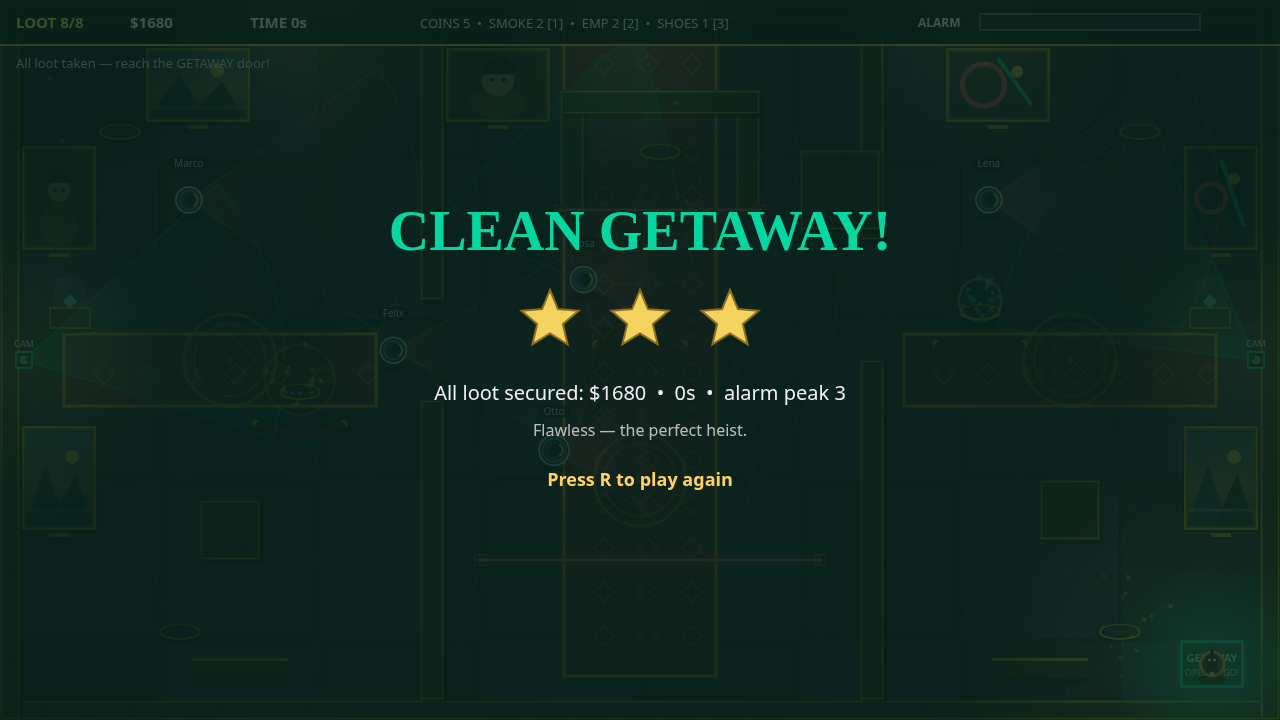
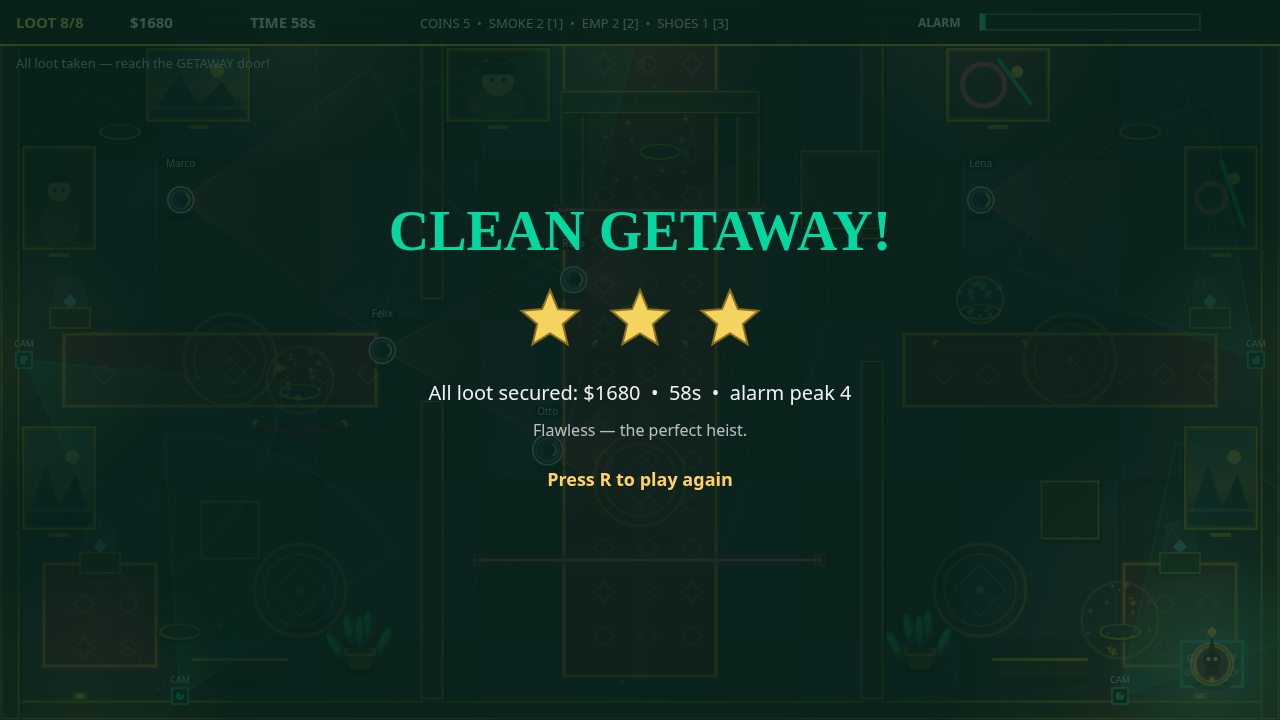
v3: 5 cameras (Cam D guards Emerald, Cam E guards Topaz + GETAWAY), bigger hero thief, lit south corners, realistic win time
- Cam D (180,696, base -PI/2-0.25) sweeps the Emerald + SW entry corner;
  Cam E (1120,696, base -PI/2+0.55) sweeps the Topaz + GETAWAY door.
  Title text 3 CAMERAS -> 5 CAMERAS (README + main.ts header too).
- Thief drawn 1.5x collision radius with gold hero ring, stronger rim
  light, warm halo, floating gold marker; collision r=12, speed and all
  mechanics unchanged. Lantern light pool widened 250 -> 280.
- South corners filled (visual only, never blocks movement): corner
  rugs, 2 extra glass cases, 2 potted palms, 2 gold floor medallions,
  2 bottom-wall sconces + light pools.
- Win-test staging now records a realistic elapsed time (52-73s) before
  the exit step, so 4-getaway.png shows 58s instead of 0s.
- Verified 2x headless: 0 console/page errors; win 8/8 $1,680 3 stars;
  caught alarm 100; LOS clear/blocked/smoke/out-of-range; laser +25;
  canSee proof: Cam D sees Emerald + thief start, Cam E sees Topaz +
  GETAWAY centre/corner, aligned and at some point in the live sweep.

diff --git a/game/src/render.js b/game/src/render.js
@@ -138,7 +138,7 @@ function buildStaticLayer() {
     ctx.fillRect(cp.x + cp.w / 2 - 6, cp.y, 12, cp.h);
   }
   // --- gold floor medallions (inlaid marble circles, gallery centres) ---
-  for (const [mx, my] of [[230, 360], [1070, 360], [640, 480]]) {
+  for (const [mx, my] of [[230, 360], [1070, 360], [640, 480], [300, 590], [980, 590]]) {
     ctx.strokeStyle = 'rgba(201,162,39,0.55)';
     ctx.lineWidth = 3;
     ctx.beginPath(); ctx.arc(mx, my, 46, 0, Math.PI * 2); ctx.stroke();
@@ -243,6 +243,34 @@ function buildStaticLayer() {
     ctx.beginPath();
     ctx.moveTo(cs.x, cs.y - 6); ctx.lineTo(cs.x + 7, cs.y + 2); ctx.lineTo(cs.x, cs.y + 8); ctx.lineTo(cs.x - 7, cs.y + 2);
     ctx.closePath(); ctx.fill();
+  }
+  // --- potted palms (terracotta pot + layered fronds) ---
+  for (const pl of LEVEL.decor.plants) {
+    ctx.fillStyle = 'rgba(0,0,0,0.4)';
+    ctx.beginPath(); ctx.ellipse(pl.x, pl.y + 14, 20, 6, 0, 0, Math.PI * 2); ctx.fill();
+    // fronds behind the pot rim
+    const fronds = [[-14, -26, -0.5], [-6, -34, -0.15], [4, -36, 0.1], [13, -28, 0.45], [0, -30, 0]];
+    for (const [ox, oy, rot] of fronds) {
+      ctx.save();
+      ctx.translate(pl.x, pl.y + 6);
+      ctx.rotate(rot);
+      ctx.fillStyle = '#1d6b3a';
+      ctx.beginPath(); ctx.ellipse(ox, oy, 6, 16, 0, 0, Math.PI * 2); ctx.fill();
+      ctx.fillStyle = '#2fd67a';
+      ctx.beginPath(); ctx.ellipse(ox - 1, oy - 2, 3.5, 12, 0, 0, Math.PI * 2); ctx.fill();
+      ctx.restore();
+    }
+    ctx.fillStyle = '#8a4a22';
+    ctx.beginPath();
+    ctx.moveTo(pl.x - 14, pl.y - 2); ctx.lineTo(pl.x + 14, pl.y - 2);
+    ctx.lineTo(pl.x + 10, pl.y + 14); ctx.lineTo(pl.x - 10, pl.y + 14);
+    ctx.closePath(); ctx.fill();
+    ctx.fillStyle = '#a85a2a';
+    ctx.fillRect(pl.x - 15, pl.y - 6, 30, 6);
+    ctx.strokeStyle = C.gold; ctx.lineWidth = 1.5;
+    ctx.strokeRect(pl.x - 15, pl.y - 6, 30, 6);
+    ctx.fillStyle = '#2a1a0e';
+    ctx.beginPath(); ctx.ellipse(pl.x, pl.y - 4, 12, 3, 0, 0, Math.PI * 2); ctx.fill();
   }
   // --- velvet ropes: brass posts + sagging crimson rope ---
   for (const r of LEVEL.decor.ropes) {
@@ -473,38 +501,64 @@ function drawGuard(ctx, g, t) {
 }
 
 function drawThief(ctx, th, t) {
+  // VISUAL ONLY: the drawn hero is 1.5x the collision radius (th.r stays 12,
+  // speed and mechanics untouched) so the thief reads clearly in thumbnails.
+  const vr = th.r * 1.5;
+  // warm hero halo so the thief pops out of the dark floor
+  const halo = ctx.createRadialGradient(th.x, th.y, 4, th.x, th.y, vr + 26);
+  halo.addColorStop(0, 'rgba(255,200,120,0.30)');
+  halo.addColorStop(0.55, 'rgba(150,110,255,0.14)');
+  halo.addColorStop(1, 'rgba(150,110,255,0)');
+  ctx.fillStyle = halo;
+  ctx.beginPath(); ctx.arc(th.x, th.y, vr + 26, 0, Math.PI * 2); ctx.fill();
   ctx.fillStyle = 'rgba(0,0,0,0.5)';
-  ctx.beginPath(); ctx.ellipse(th.x, th.y + th.r + 3, th.r + 2, 5, 0, 0, Math.PI * 2); ctx.fill();
+  ctx.beginPath(); ctx.ellipse(th.x, th.y + vr + 3, vr + 2, 5, 0, 0, Math.PI * 2); ctx.fill();
   const fx = Math.cos(th.facing), fy = Math.sin(th.facing);
   // cloak (deep violet so the hero pops against the dark floor, like Kumala's hero)
-  ctx.beginPath(); ctx.arc(th.x, th.y, th.r, 0, Math.PI * 2);
+  ctx.beginPath(); ctx.arc(th.x, th.y, vr, 0, Math.PI * 2);
   ctx.fillStyle = C.thief; ctx.fill();
-  ctx.strokeStyle = C.thiefTrim; ctx.lineWidth = 2.5; ctx.stroke();
-  // warm rim light on the cloak edge
-  ctx.strokeStyle = 'rgba(255,200,120,0.55)';
+  ctx.strokeStyle = C.thiefTrim; ctx.lineWidth = 3; ctx.stroke();
+  // gold hero ring — the thumbnail-readable outline
+  ctx.strokeStyle = 'rgba(255,233,168,0.9)';
   ctx.lineWidth = 1.5;
-  ctx.beginPath(); ctx.arc(th.x, th.y, th.r - 1, th.facing - 2.2, th.facing - 0.6); ctx.stroke();
+  ctx.beginPath(); ctx.arc(th.x, th.y, vr + 3, 0, Math.PI * 2); ctx.stroke();
+  // strong warm rim light on the cloak edge (two arcs: lit side + faint far side)
+  ctx.strokeStyle = 'rgba(255,200,120,0.85)';
+  ctx.lineWidth = 3;
+  ctx.beginPath(); ctx.arc(th.x, th.y, vr - 1, th.facing - 2.2, th.facing - 0.6); ctx.stroke();
+  ctx.strokeStyle = 'rgba(255,200,120,0.35)';
+  ctx.lineWidth = 2;
+  ctx.beginPath(); ctx.arc(th.x, th.y, vr - 1, th.facing + 0.9, th.facing + 2.4); ctx.stroke();
   // hood point toward facing
   ctx.fillStyle = '#171222';
   ctx.beginPath();
-  ctx.moveTo(th.x + fx * (th.r + 7), th.y + fy * (th.r + 7));
-  ctx.lineTo(th.x + Math.cos(th.facing + 2.5) * th.r * 0.8, th.y + Math.sin(th.facing + 2.5) * th.r * 0.8);
-  ctx.lineTo(th.x + Math.cos(th.facing - 2.5) * th.r * 0.8, th.y + Math.sin(th.facing - 2.5) * th.r * 0.8);
+  ctx.moveTo(th.x + fx * (vr + 10), th.y + fy * (vr + 10));
+  ctx.lineTo(th.x + Math.cos(th.facing + 2.5) * vr * 0.8, th.y + Math.sin(th.facing + 2.5) * vr * 0.8);
+  ctx.lineTo(th.x + Math.cos(th.facing - 2.5) * vr * 0.8, th.y + Math.sin(th.facing - 2.5) * vr * 0.8);
   ctx.closePath(); ctx.fill();
-  // face + eye glints
+  // face + eye glints (bigger, so the eyes read at thumbnail size)
   ctx.fillStyle = '#0d0a14';
-  ctx.beginPath(); ctx.arc(th.x + fx * 3, th.y + fy * 3, 6, 0, Math.PI * 2); ctx.fill();
+  ctx.beginPath(); ctx.arc(th.x + fx * 4, th.y + fy * 4, 8.5, 0, Math.PI * 2); ctx.fill();
   ctx.fillStyle = '#ffe9a8';
-  ctx.beginPath(); ctx.arc(th.x + fx * 4 + Math.cos(th.facing + 1.57) * 2.5, th.y + fy * 4 + Math.sin(th.facing + 1.57) * 2.5, 1.6, 0, Math.PI * 2); ctx.fill();
-  ctx.beginPath(); ctx.arc(th.x + fx * 4 - Math.cos(th.facing + 1.57) * 2.5, th.y + fy * 4 - Math.sin(th.facing + 1.57) * 2.5, 1.6, 0, Math.PI * 2); ctx.fill();
+  ctx.beginPath(); ctx.arc(th.x + fx * 5 + Math.cos(th.facing + 1.57) * 3.5, th.y + fy * 5 + Math.sin(th.facing + 1.57) * 3.5, 2.2, 0, Math.PI * 2); ctx.fill();
+  ctx.beginPath(); ctx.arc(th.x + fx * 5 - Math.cos(th.facing + 1.57) * 3.5, th.y + fy * 5 - Math.sin(th.facing + 1.57) * 3.5, 2.2, 0, Math.PI * 2); ctx.fill();
   // gold clasp
   ctx.fillStyle = C.goldBright;
-  ctx.beginPath(); ctx.arc(th.x - fx * (th.r - 2), th.y - fy * (th.r - 2), 2, 0, Math.PI * 2); ctx.fill();
+  ctx.beginPath(); ctx.arc(th.x - fx * (vr - 2), th.y - fy * (vr - 2), 3, 0, Math.PI * 2); ctx.fill();
+  // floating gold hero marker above the head — the "find the thief" beacon
+  const my = th.y - vr - 12 + Math.sin(t * 3) * 2;
+  ctx.fillStyle = '#f4d35e';
+  ctx.beginPath();
+  ctx.moveTo(th.x, my - 5); ctx.lineTo(th.x + 5, my); ctx.lineTo(th.x, my + 5); ctx.lineTo(th.x - 5, my);
+  ctx.closePath(); ctx.fill();
+  ctx.strokeStyle = 'rgba(255,233,168,0.9)';
+  ctx.lineWidth = 1;
+  ctx.stroke();
   // silent shoes ring
   if (th.shoesTimer > 0) {
     ctx.strokeStyle = `rgba(244,211,94,${0.5 + 0.4 * Math.sin(t * 6)})`;
     ctx.lineWidth = 2;
-    ctx.beginPath(); ctx.arc(th.x, th.y, th.r + 5, 0, Math.PI * 2); ctx.stroke();
+    ctx.beginPath(); ctx.arc(th.x, th.y, vr + 7, 0, Math.PI * 2); ctx.stroke();
   }
 }
 
@@ -529,7 +583,7 @@ function applyLighting(ctx, world) {
     l.beginPath(); l.arc(x, y, r, 0, Math.PI * 2); l.fill();
   };
   const th = world.thief;
-  hole(th.x, th.y, 250, 1); // thief lantern light
+  hole(th.x, th.y, 280, 1); // thief lantern light (hero pool, wider than before)
   for (const lt of world.loot) if (!lt.taken) hole(lt.x, lt.y, 95, 0.9);
   const e = LEVEL.exit;
   hole(e.x + e.w / 2, e.y + e.h / 2, world.allLootTaken ? 140 : 90, world.allLootTaken ? 0.95 : 0.5);
@@ -545,7 +599,7 @@ function applyLighting(ctx, world) {
     l.fillStyle = g;
     l.beginPath(); l.arc(x, y, r, 0, Math.PI * 2); l.fill();
   };
-  warm(th.x, th.y, 260, 0.16);
+  warm(th.x, th.y, 290, 0.18);
   for (const s of LEVEL.decor.sconces) warm(s.x, s.y, 150, 0.18);
   for (const lt of world.loot) if (!lt.taken) warm(lt.x, lt.y, 110, 0.1);
   ctx.drawImage(lightCanvas, 0, 0);
@@ -800,7 +854,7 @@ export function render(ctx, world) {
     });
     ctx.fillStyle = C.goldBright;
     ctx.font = 'bold 15px system-ui, sans-serif';
-    ctx.fillText('8 TREASURES  •  $1,680  •  5 GUARDS  •  3 CAMERAS  •  LASER GRIDS', W / 2, 512);
+    ctx.fillText('8 TREASURES  •  $1,680  •  5 GUARDS  •  5 CAMERAS  •  LASER GRIDS', W / 2, 512);
     ctx.fillStyle = C.hudText;
     ctx.font = '16px system-ui, sans-serif';
     ctx.fillText('WASD / arrows — move    •    Click — throw a coin to distract a guard', W / 2, 548);

diff --git a/game/src/level.js b/game/src/level.js
@@ -1,6 +1,6 @@
 // VELVET VAULT — the museum floor. One job: walls, loot, patrols, cameras, lasers, decor.
 // v2: four galleries (West / Central Hall / East / North Vault alcove), 5 guards,
-// 8 loot ($1,680), 3 cameras, 3 timed laser grids, framed paintings, velvet ropes.
+// 8 loot ($1,680), 5 cameras, 3 timed laser grids, framed paintings, velvet ropes.
 export const LEVEL = {
   // border + interior cover. {x, y, w, h} in pixels.
   walls: [
@@ -44,10 +44,15 @@ export const LEVEL = {
     { name: 'Felix', kind: 'roamer', patrolSpeed: 95, chaseSpeed: 152, visionRange: 200, visionHalfAngle: 0.5, waypoints: [[300, 350], [640, 350], [980, 350]] },
   ],
   // cameras: mounted on a wall, sweeping around baseAngle.
+  // Cam D (south-west, tilted slightly west) watches the Emerald + thief
+  // entry corner; Cam E (south-east, tilted toward the door) watches the
+  // Topaz + GETAWAY exit. Both sit on the bottom wall like Cam A on top.
   cameras: [
     { name: 'Cam A', x: 640, y: 24, baseAngle: Math.PI / 2 },
     { name: 'Cam B', x: 1256, y: 360, baseAngle: Math.PI },
     { name: 'Cam C', x: 24, y: 360, baseAngle: 0 },
+    { name: 'Cam D', x: 180, y: 696, baseAngle: -Math.PI / 2 - 0.25 },
+    { name: 'Cam E', x: 1120, y: 696, baseAngle: -Math.PI / 2 + 0.55 },
   ],
   // lasers: timed beams. {x1,y1,x2,y2, period s, onTime s, phase s}
   lasers: [
@@ -61,6 +66,8 @@ export const LEVEL = {
       { x: 560, y: 20, w: 160, h: 660 }, // central runner
       { x: 60, y: 330, w: 320, h: 80 }, // west runner
       { x: 900, y: 330, w: 320, h: 80 }, // east runner
+      { x: 40, y: 560, w: 120, h: 110 }, // south-west corner rug (entry mat)
+      { x: 1120, y: 560, w: 120, h: 110 }, // south-east rug: red carpet to the GETAWAY door
     ],
     paintings: [
       { x: 150, y: 52, w: 96, h: 66, art: 'landscape' },
@@ -74,6 +81,12 @@ export const LEVEL = {
     cases: [ // glass display pedestals with a tiny gem inside
       { x: 70, y: 300 },
       { x: 1210, y: 300 },
+      { x: 100, y: 545 }, // south-west corner case
+      { x: 1180, y: 545 }, // south-east corner case
+    ],
+    plants: [ // potted palms in the south corners (visual only)
+      { x: 360, y: 655 },
+      { x: 920, y: 655 },
     ],
     ropes: [ // velvet rope in front of the big pieces (posts + sagging rope)
       { x1: 596, y1: 344, x2: 684, y2: 344 },
@@ -86,6 +99,8 @@ export const LEVEL = {
       { x: 980, y: 24 },
       { x: 24, y: 360 },
       { x: 1256, y: 360 },
+      { x: 80, y: 696 }, // south-west corner light
+      { x: 1200, y: 696 }, // south-east corner light
     ],
   },
   exit: { x: 1180, y: 640, w: 64, h: 48, label: 'GETAWAY' },

diff --git a/main.ts b/main.ts
@@ -1,6 +1,6 @@
 // VELVET VAULT — a museum heist game (Node 22, standard library only).
-// You are the thief. Cross the gallery, dodge three patrolling guards and
-// two sweeping cameras, pocket five treasures, and slip out the getaway
+// You are the thief. Cross the gallery, dodge five patrolling guards and
+// five sweeping cameras, pocket eight treasures worth $1,680, and slip out the getaway
 // door before the alarm meter hits 100. Coins distract guards, smoke
 // blinds them, an EMP kills the cameras, silent shoes buy speed — every
 // tool costs a use, so read the cones before you move.

diff --git a/README.md b/README.md
@@ -4,7 +4,7 @@
 [![rank](https://make.fun/badge/best-heist-game-20261122-0559/SARIP-afk/best-heist-game-20261122-0559-entry/rank.svg)](https://make.fun/bounty/best-heist-game-20261122-0559/leaderboard?utm_source=github&utm_medium=readme&utm_campaign=best-heist-game-20261122-0559)
 [![reward](https://make.fun/badge/best-heist-game-20261122-0559/SARIP-afk/best-heist-game-20261122-0559-entry/reward.svg)](https://make.fun/bounty/best-heist-game-20261122-0559?utm_source=github&utm_medium=readme&utm_campaign=best-heist-game-20261122-0559)
 
-Velvet Vault — a museum heist game. You are the thief: cross four galleries, dodge five patrolling guards (including elite Rosa and roaming Felix) and three sweeping cameras, time the laser grids, pocket eight treasures worth $1,680, and slip out the getaway door before the alarm meter hits 100. Coins distract guards, smoke blinds them, an EMP kills the cameras, silent shoes buy speed. Finish fast and quiet for a 3-star getaway.
+Velvet Vault — a museum heist game. You are the thief: cross four galleries, dodge five patrolling guards (including elite Rosa and roaming Felix) and five sweeping cameras, time the laser grids, pocket eight treasures worth $1,680, and slip out the getaway door before the alarm meter hits 100. Coins distract guards, smoke blinds them, an EMP kills the cameras, silent shoes buy speed. Finish fast and quiet for a 3-star getaway.
 
 ## Run it
 
